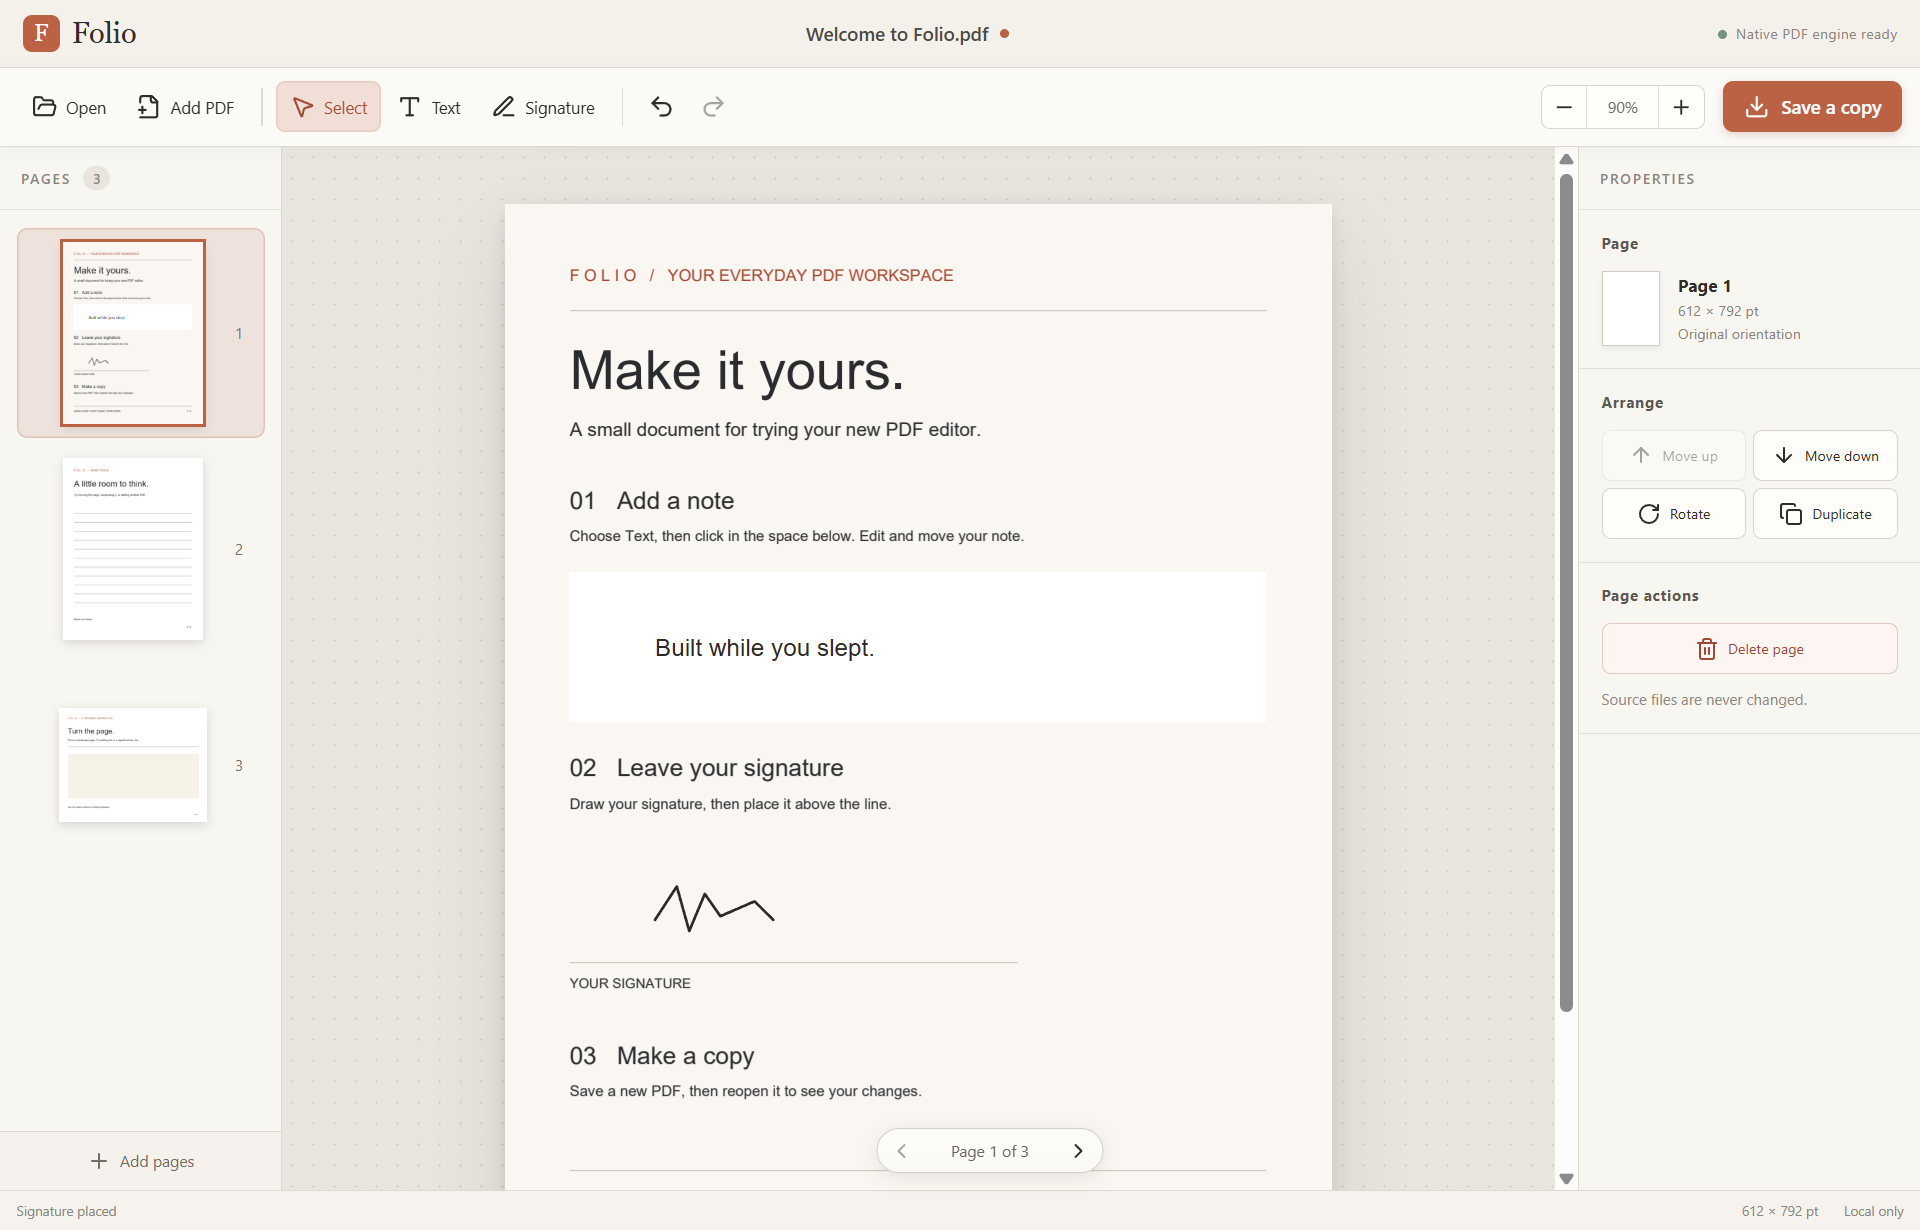
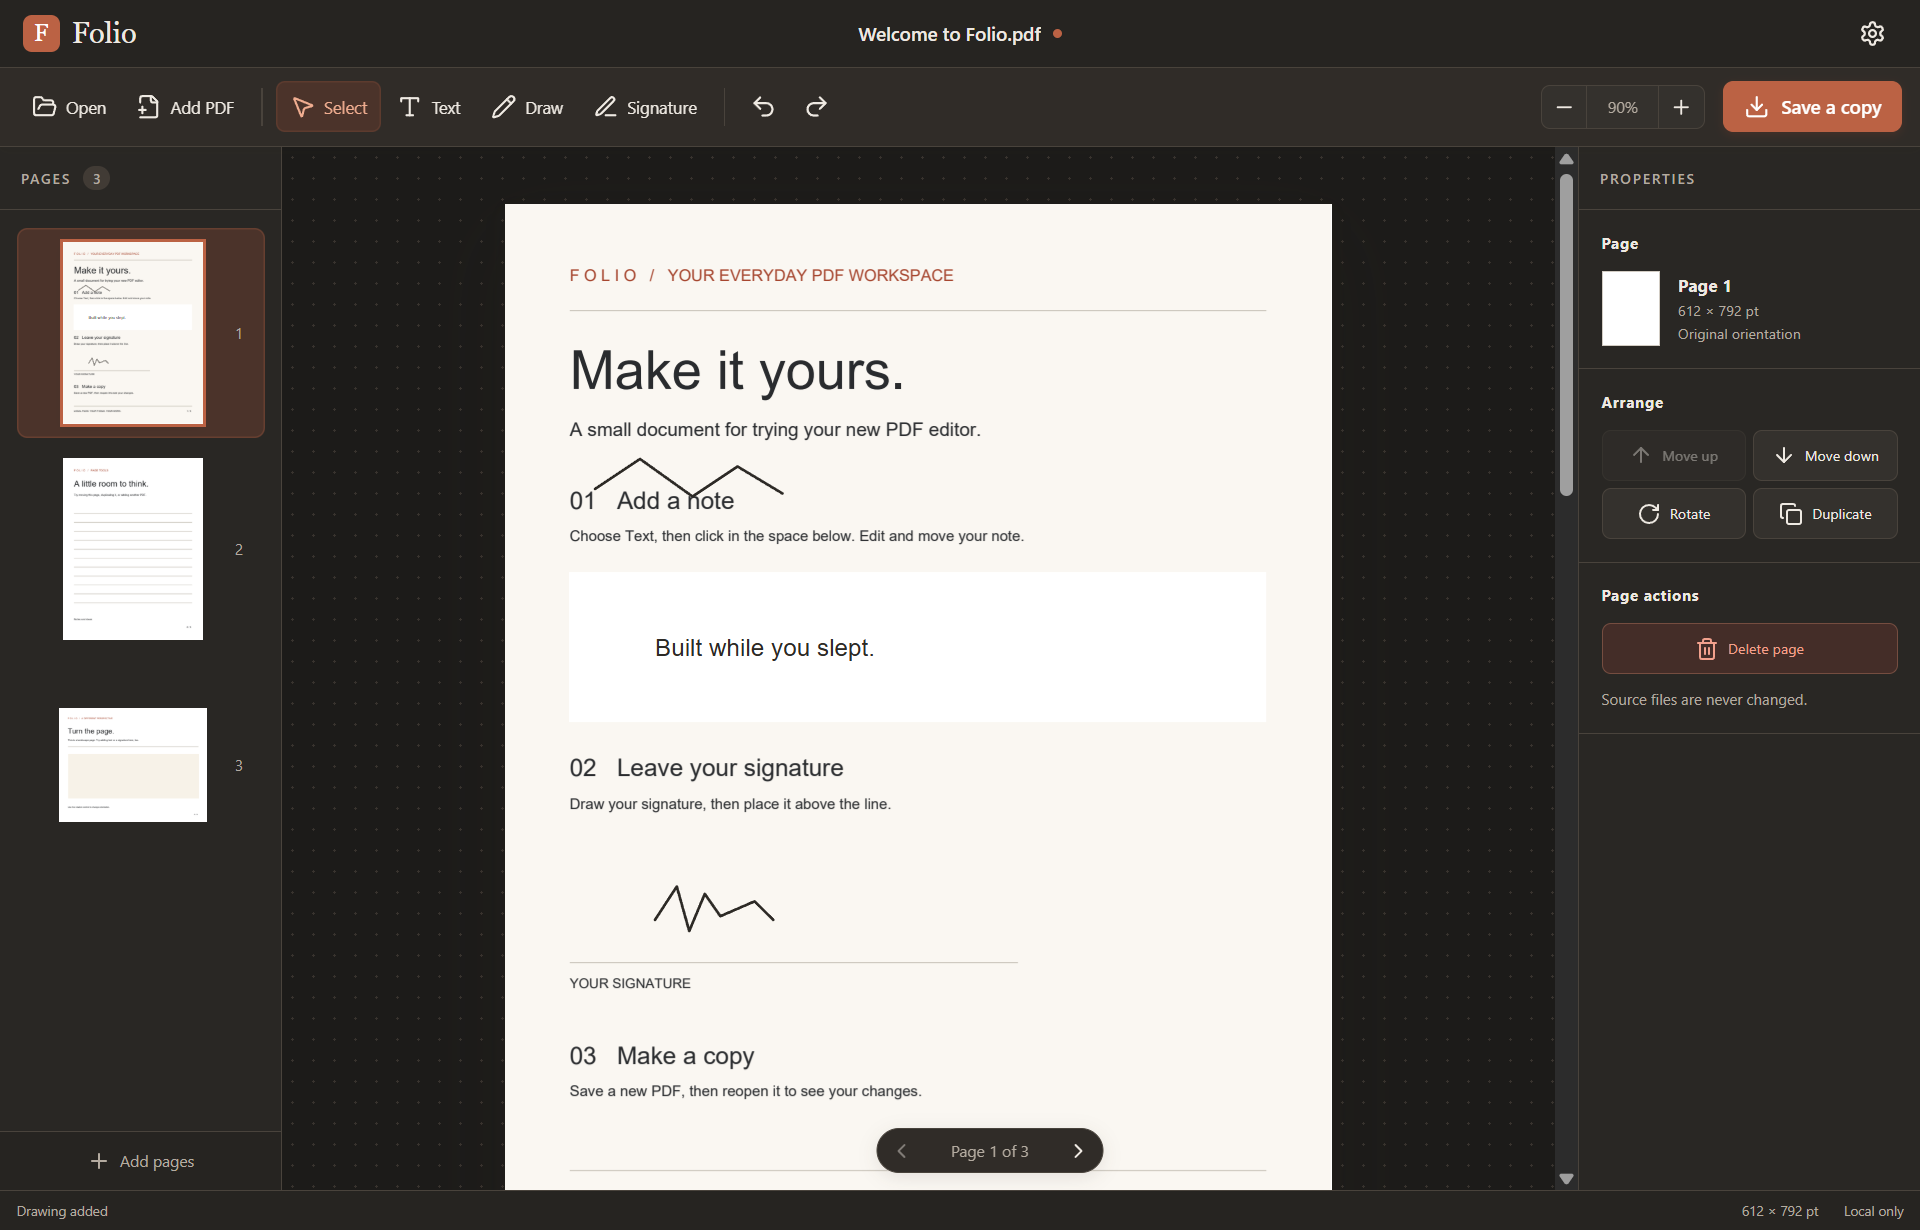
chore: verify and package Folio 0.2.0 for Windows

diff --git a/vitest.config.ts b/vitest.config.ts
@@ -1,5 +1,5 @@
 import { defineConfig } from "vitest/config";
 
 export default defineConfig({
-  test: { environment: "jsdom", setupFiles: ["./tests/setup.ts"] },
+  test: { include: ["tests/**/*.test.{ts,tsx}"], environment: "jsdom", setupFiles: ["./tests/setup.ts"] },
 });

diff --git a/docs/verification.md b/docs/verification.md
@@ -1,58 +1,62 @@
-# Folio verification — 2026-09-10
+# Folio 0.2.0 verification — 2026-09-10
 
 Verified on Windows x64 with PDFium chromium/8044.
 
 | Check | Result |
 | --- | --- |
-| Frontend state, geometry, cache and interface tests | 15 passed |
+| Frontend state, drawing, viewport, preferences, dialogs and page-drag tests | 48 passed |
 | TypeScript check and Vite production build | Passed |
-| Rust formatting and all-target check | Passed |
-| Native integration tests, normal target, default parallel execution | 4 passed |
-| Browser interaction smoke | Passed; no page errors |
-| Standalone release desktop smoke, development server stopped | Passed; no page errors |
-| Independent source review and targeted regression reruns | Approved; no unresolved important or critical findings |
+| Rust formatting | Passed |
+| Native integration tests, default parallel execution | 4 passed |
+| Browser interaction and upgrade smoke scripts | Passed; no page errors or browser confirmation prompts |
+| Windows portable release build | Passed |
+| Standalone release desktop editing, export/reopen and close | Passed; no page errors |
+| Independent source review and targeted browser regressions | Approved; findings corrected and rechecked |
 
-The desktop smoke launched artifacts/Folio/Folio.exe with its bundled engine
-and embedded interface. It opened a real PDF through the Windows dialog, added
-text and a drawn signature, duplicated the annotated page, merged another PDF,
-then saved and reopened the seven-page output. Unsupported text produced a
-visible error, retained unsaved state, and created no damaged output file.
-
-A separate PDFium probe rendered the saved output. Visual comparison confirmed
-matching text placement and the complete signature.
-See [the actual desktop screenshot](folio-desktop.png).
+Browser upgrade checks cover continuous-scroll selection, edits on the correct
+page, drawing with undo/redo, real thumbnail drag with insertion markers,
+cursor-anchored Ctrl+wheel zoom, theme and view-mode persistence, centered
+confirmations, modal focus restoration, and Undo after an interrupted move.
 
 Native regressions cover crop origins, intrinsic and additional rotation,
 multiline text, the final segment of a saved stroke, duplicate annotated pages,
 atomic replacement, source paths and hardlink aliases. Unsupported characters
-preserve a pre-existing destination byte for byte. The reviewer independently
-checked all 216 accepted printable characters against PDFium.
+preserve a pre-existing destination byte for byte.
 
-Frontend review exercised 200% zoom, a 65-page preview cache stress case,
-edge signature placement and repeated spaces. All findings were fixed and
-independently rechecked.
+The actual portable executable opened a sample PDF, added text, signature and
+freehand ink, dragged and undid a page move, duplicated and merged pages,
+rejected unsupported text, saved and reopened seven pages, and verified both
+close-confirmation decisions. A separate PDFium probe rendered the saved PDF;
+visual inspection confirmed text placement and complete freehand/signature paths.
+See [the desktop screenshot](folio-desktop.png).
 
 ## Reproduce
 
 Run scripts/verify.ps1 for frontend and native checks, and
-scripts/build-portable.ps1 for the release distribution.
+scripts/build-portable.ps1 for the release distribution. Packaging uses a
+separate versioned Cargo target directory, so a previously running development
+executable does not lock the next release build.
 
-For the desktop smoke, install Playwright Chromium, run
+For browser checks, install Playwright Chromium, start the Vite server, then
+run node scripts/smoke-ui.mjs and node scripts/smoke-upgrades.mjs.
+
+For native smoke, install PowerShell 7 (pwsh) and Playwright, then run
 scripts/start-desktop-test.ps1 in a separate PowerShell process, set
 FOLIO_APP_PID from artifacts/desktop-process.json, then run
-node scripts/smoke-desktop.mjs. Close that test process afterward.
+node scripts/smoke-desktop.mjs. The test closes its own app after checking both
+close-confirmation choices. A failed run may leave its recorded test process open.
 
-The native smoke uses English Windows dialog accelerators and a temporary
-loopback WebView automation port. Leave keyboard focus with the test dialogs.
-The normal launcher does not enable that port.
+Native dialog automation is restricted to the recorded process and English
+Windows dialog titles. It uses accessibility controls and the default save filename in a fresh test directory. Leave the test window untouched while it runs. The launcher uses an isolated WebView profile and a
+temporary loopback automation port; the normal launcher does not enable that port.
 
 Detailed reports, saved output, screenshots and probe results are retained
 under artifacts, which is intentionally ignored by Git.
 
 ## Evidence limits
 
-This prototype was tested on generated sample PDFs and targeted regression
-fixtures. It has not been evaluated against a broad real-world PDF corpus or
+Testing uses generated sample PDFs and targeted regression fixtures. This
+prototype has not been evaluated against a broad real-world PDF corpus or
 benchmarked against Foxit. Direct-engine timing on tiny samples is not an
 end-to-end application performance benchmark.
 

diff --git a/docs/superpowers/plans/2026-09-10-editor-upgrades.md b/docs/superpowers/plans/2026-09-10-editor-upgrades.md
@@ -11,27 +11,27 @@ All PDF work remains local. Preserve existing source safety and vector export. C
 
 ## Task 1 — Drawing and viewport
 Files: src/components/PageView.tsx, new DocumentViewport.tsx, optional editor/drawing.ts, viewport/drawing tests.
-- [ ] Write failing behavior tests for rotated drawing, cancel/end and page routing/scroll.
-- [ ] Extend PageView with draw tool, draft path, pointer capture, safe cancellation and optional page activation/interaction disabling.
-- [ ] Implement continuous/single viewport with lazy full-page rendering, scroll-selected page, explicit navigation requests and anchored Ctrl+wheel zoom.
-- [ ] Validate targeted tests/build and commit; report interface and evidence.
+- [x] Write failing behavior tests for rotated drawing, cancel/end and page routing/scroll.
+- [x] Extend PageView with draw tool, draft path, pointer capture, safe cancellation and optional page activation/interaction disabling.
+- [x] Implement continuous/single viewport with lazy full-page rendering, scroll-selected page, explicit navigation requests and anchored Ctrl+wheel zoom.
+- [x] Validate targeted tests/build and commit; report interface and evidence.
 
 Interface: DocumentViewport props adapter,pages,selectedPageId,selectedOverlayId,zoom,onZoomChange,viewMode,tool,penColor,penWidth,pendingSignature,interactionDisabled,navigationRequest:{pageId,revision}|null. Page-scoped callbacks onSelectPage(id),onSelectOverlay(pageId,id|null),onAddText(pageId,point),onPlaceSignature(pageId,point),onMoveOverlay(pageId,id,x,y,phase),onDraw(pageId,path). PageView existing callbacks retained; add optional onDraw(path), drawColor,drawWidth,onActivate,interactionDisabled. tool adds draw.
 
 ## Task 2 — Modal, settings and theme
 Files: new components/Modal.tsx, ConfirmDialog.tsx, SettingsDialog.tsx, editor/preferences.ts, styles.css; SignaturePad modal wrapper; own tests.
-- [ ] Write failing preference/focus/modal behavior tests.
-- [ ] Provide validated persistent settings hook and reusable accessible centered modal.
-- [ ] Build settings UI and consistent dark/light styles; keep PDF paper colors intact.
-- [ ] Adapt signature pad to shared modal; validate tests and commit.
+- [x] Write failing preference/focus/modal behavior tests.
+- [x] Provide validated persistent settings hook and reusable accessible centered modal.
+- [x] Build settings UI and consistent dark/light styles; keep PDF paper colors intact.
+- [x] Adapt signature pad to shared modal; validate tests and commit.
 
 Interface: usePreferences() returns {preferences,setPreferences,resetPreferences}; Preferences {theme:'system'|'light'|'dark',viewMode:'continuous'|'single',defaultZoom:number,penColor:string,penWidth:number}. SettingsDialog props preferences,onChange(nextPreferences),onReset,onClose. ConfirmDialog props title,description,confirmLabel,onConfirm,onCancel; cancel default focus. Shared Modal props title,children,onClose,className?,description?,initialFocusRef?; wraps a centered dialog with focus trap.
 
 ## Task 3 — App integration and delivery (parent)
 Files: App.tsx, app tests, scripts, docs, versions, root launcher after merge.
-- [ ] Add failing app tests for modal cancellation, settings, drawing and page identity.
-- [ ] Remove engine badge, integrate asynchronous modal actions/close, block background shortcuts, wire page-scoped state/history callbacks, settings and Draw toolbar/properties.
-- [ ] Run full frontend/native checks and browser/native smoke, review, resolve substantive findings.
-- [ ] Merge local branch, package versioned 0.2 update, verify and update launcher; commit handoff.
+- [x] Add failing app tests for modal cancellation, settings, drawing and page identity.
+- [x] Remove engine badge, integrate asynchronous modal actions/close, block background shortcuts, wire page-scoped state/history callbacks, settings and Draw toolbar/properties.
+- [x] Run full frontend/native checks and browser/native smoke, review, resolve substantive findings.
+- [x] Merge local branch, package versioned 0.2 update, verify and update launcher; commit handoff.
 
 No native payload change needed. Page IDs identify edits even if scroll selection changes. Preferences do not dirty PDFs. Save cancellation preserves dirty state. Latest file/dialog cancellation never closes current source prematurely.
